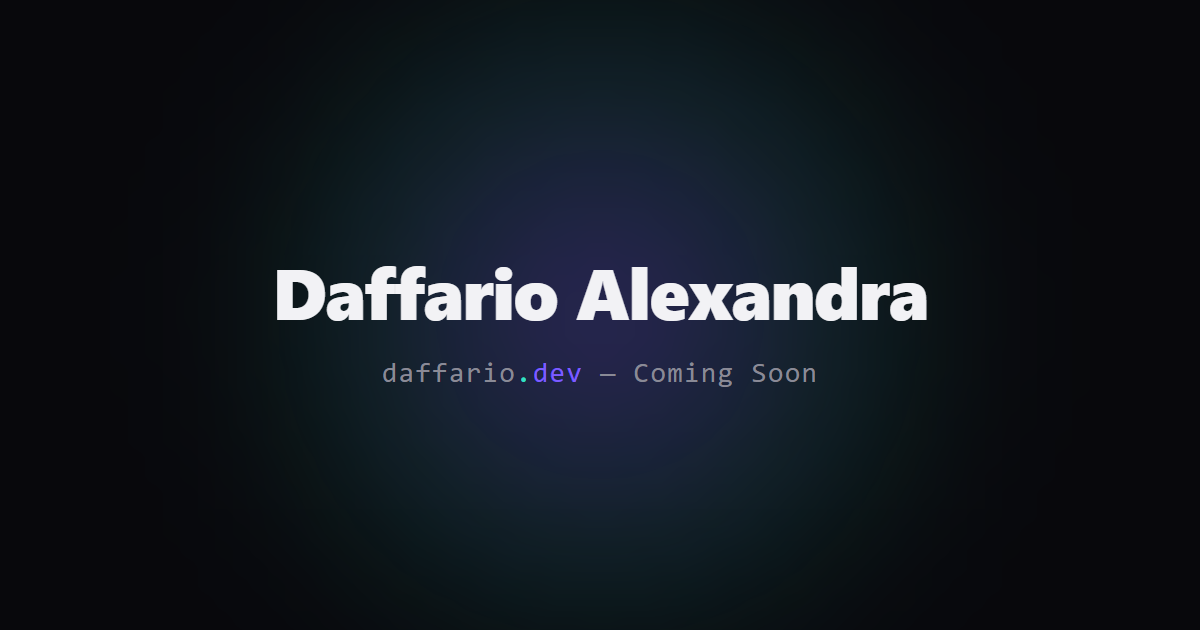
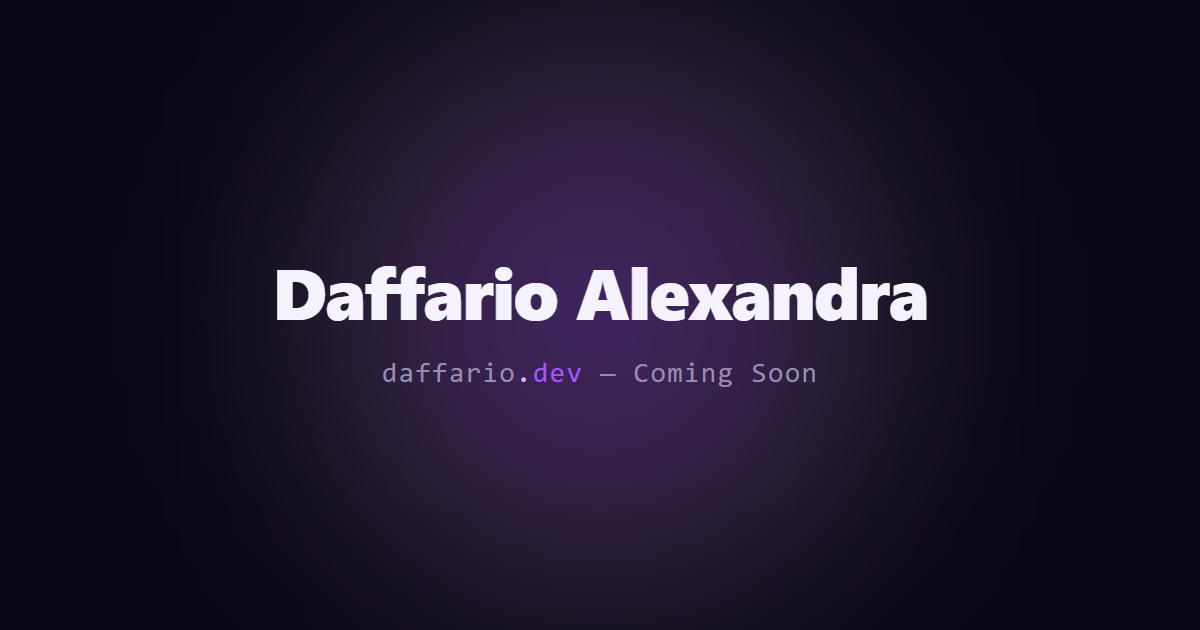
fix: widen mouse-parallax range and remove faulty pointer gate; switch to elegant purple palette

Changed region(s): [[0.3083, 0.181, 0.6783, 0.8143]]

diff --git a/index.html b/index.html
@@ -5,7 +5,7 @@
   <meta name="viewport" content="width=device-width, initial-scale=1.0" />
   <title>Daffario Alexandra — Coming Soon</title>
   <meta name="description" content="Daffario Alexandra's portfolio is under construction. Check back soon." />
-  <meta name="theme-color" content="#08080c" />
+  <meta name="theme-color" content="#0b0714" />
 
   <meta property="og:type" content="website" />
   <meta property="og:url" content="https://daffario.dev" />
@@ -98,11 +98,10 @@
       type();
     }
 
-    const prefersFinePointer = window.matchMedia("(pointer: fine)").matches;
-    if (prefersFinePointer && !prefersReducedMotion) {
+    if (!prefersReducedMotion) {
       const glowWrap = document.querySelector(".glow-wrap");
-      const MAX_OFFSET = 40;
-      document.addEventListener("mousemove", (e) => {
+      const MAX_OFFSET = 90;
+      window.addEventListener("mousemove", (e) => {
         const x = (e.clientX / window.innerWidth - 0.5) * 2 * MAX_OFFSET;
         const y = (e.clientY / window.innerHeight - 0.5) * 2 * MAX_OFFSET;
         glowWrap.style.transform = `translate(calc(-50% + ${x}px), calc(-50% + ${y}px))`;

diff --git a/style.css b/style.css
@@ -1,10 +1,10 @@
 :root {
-  --bg: #08080c;
-  --fg: #f2f2f5;
-  --muted: #8a8a96;
-  --accent-1: #7c5cff;
-  --accent-2: #33e0c4;
-  --border: rgba(255, 255, 255, 0.08);
+  --bg: #0b0714;
+  --fg: #f5f2fb;
+  --muted: #9a8cb0;
+  --accent-1: #a855f7;
+  --accent-2: #d8b4fe;
+  --border: rgba(168, 85, 247, 0.18);
 }
 
 * {
@@ -49,7 +49,7 @@ body {
 .glow {
   width: 100%;
   height: 100%;
-  background: radial-gradient(circle, rgba(124, 92, 255, 0.25), rgba(51, 224, 196, 0.08) 45%, transparent 70%);
+  background: radial-gradient(circle, rgba(168, 85, 247, 0.32), rgba(216, 180, 254, 0.12) 45%, transparent 70%);
   filter: blur(60px);
   animation: pulse 6s ease-in-out infinite;
 }
